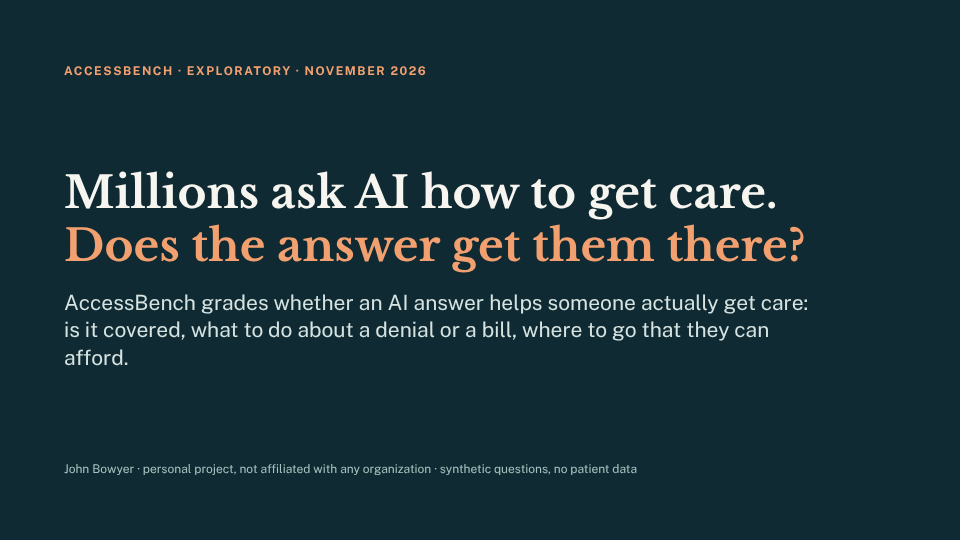
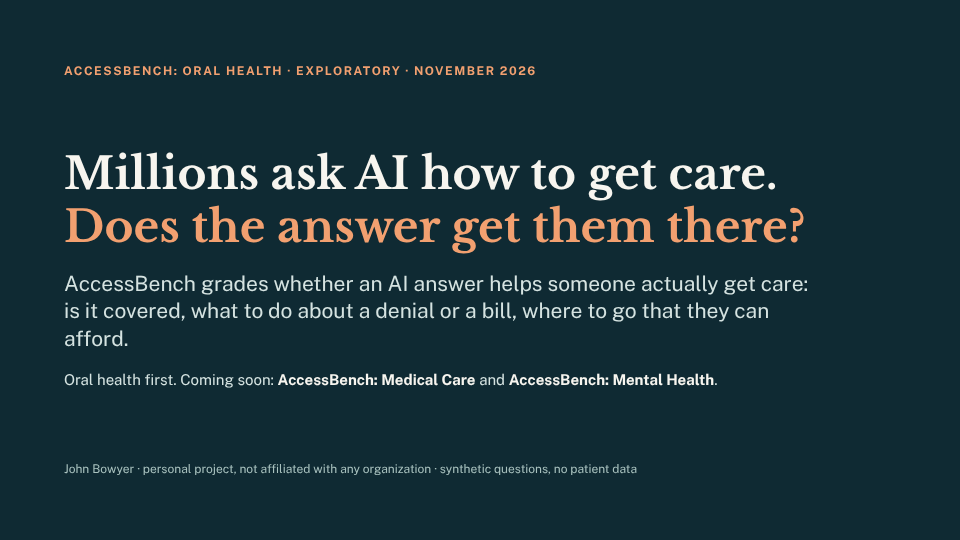
Show AccessBench's three parts: Oral Health now, Medical Care and Mental Health coming soon
Matches the deck's new name, AccessBench: Oral Health (health-transformation-lab-nlp#966).

Closes #37

Claude-Session: https://claude.ai/code/session_01MiKEPajGbA4jaa5nhk8922

Changed region(s): [[0.0625, 0.2667, 0.8438, 0.7111], [0.1875, 0.1185, 0.5625, 0.1481]]

diff --git a/index.html b/index.html
@@ -82,6 +82,9 @@ section p{max-width:46em}
 .bench .quote{font-family:var(--serif);font-size:20px;color:var(--accent);margin:4px 0 16px}
 .bench ul{padding-left:20px;margin:16px 0}
 .bench li{margin:6px 0}
+.sections{list-style:none;padding:0;margin:14px 0 0;display:flex;flex-direction:column;gap:6px}
+.sections li{font-size:16px}
+.sections .soon{color:var(--muted)}
 .note{font-size:14px;color:var(--muted);border-left:3px solid var(--peach);padding-left:12px;margin-top:14px}
 .buttons{display:flex;flex-wrap:wrap;gap:12px;margin-top:22px}
 .btn{display:inline-block;text-decoration:none;font-weight:700;font-size:15px;border-radius:10px;padding:12px 18px;border:1.5px solid var(--ink);color:var(--ink)}
@@ -183,7 +186,7 @@ footer p{max-width:60em;margin-bottom:10px}
     <div class="why">
       <div class="card reveal"><h3>PerioBench: trustworthy records</h3><p>Measure the data quality of electronic dental records, so gum disease can be counted, followed over time and linked to diabetes care.</p></div>
       <div class="card reveal"><h3>OralHealthBench (planned): accurate AI answers</h3><p>Score the AI that millions of people ask on the questions that matter at the seam of medical and dental care: medicines, chronic disease, emergencies.</p></div>
-      <div class="card reveal"><h3>AccessBench (exploratory): getting care</h3><p>Millions ask AI how to get and pay for care. Whether the answer gives the next step they need: coverage, cost, appeals, travel and accommodations.</p></div>
+      <div class="card reveal"><h3>AccessBench (exploratory): getting care</h3><p>Millions ask AI how to get and pay for care. Whether the answer gives the next step they need. Oral health first; medical care and mental health coming soon.</p></div>
       <div class="card reveal"><h3>Open and public</h3><p>Questions trace to published evidence, scores are public, and the code, the synthetic data and the methods are open for anyone to check.</p></div>
     </div>
   </div>
@@ -236,18 +239,23 @@ footer p{max-width:60em;margin-bottom:10px}
     <div>
       <p class="kicker">Benchmark 3 · getting care · exploratory</p>
       <h2>AccessBench</h2>
+      <ul class="sections">
+        <li><b>AccessBench: Oral Health</b> · first results below</li>
+        <li class="soon"><b>AccessBench: Medical Care</b> · coming soon</li>
+        <li class="soon"><b>AccessBench: Mental Health</b> · coming soon</li>
+      </ul>
       <p class="quote">Millions ask AI how to get care. Does the answer get them there?</p>
       <p>People now ask AI the questions they used to bring to a benefits counselor or a dental office's front desk: is this covered, what do I do about this bill, where can I go that I can afford. OpenAI reports more than 40 million people a day asking ChatGPT health questions, and 1.6 to 1.9 million health-insurance messages a week. The right answer depends on the state, the plan, the person's age and a deadline, and an answer that leaves out one step can mean an emergency visit, a cash bill or giving up.</p>
       <p>AccessBench grades whether an AI answer would let someone take the next step: the points this person needs, a usable first action, and no confident wrong turn, with harm and privacy graded separately. The 22 questions are <b>synthetic</b>, written from real public questions, and their answer keys were revised after reviews by five other AI models.</p>
-      <p><b>First results</b> (four open models, run 608662392694095): the answers gave <b>187 of 352</b> steps people needed. No model told someone with swelling or fever to get urgent care now, and none noticed that Medicaid's under-21 dental rule no longer applies at 23.</p>
+      <p><b>First results, AccessBench: Oral Health</b> (four open models, run 608662392694095): the answers gave <b>187 of 352</b> steps people needed. No model told someone with swelling or fever to get urgent care now, and none noticed that Medicaid's under-21 dental rule no longer applies at 23.</p>
       <p class="note">Preliminary: graded by one AI judge, not yet checked by an independent reviewer. ChatGPT, Claude and Gemini are next.</p>
       <div class="buttons">
-        <a class="btn primary" href="access-bench/" target="_blank" rel="noopener">View the pitch</a>
+        <a class="btn primary" href="access-bench/" target="_blank" rel="noopener">View the Oral Health pitch</a>
         <a class="btn" href="https://github.com/healthtransformationlab/health-transformation-lab-nlp/blob/main/docs/access/full_text_and_notes.md" target="_blank" rel="noopener">Read with speaker notes</a>
         <a class="btn" href="https://github.com/healthtransformationlab/health-transformation-lab-nlp/blob/main/benchmarks/access_bench/README.md" target="_blank" rel="noopener">The questions</a>
       </div>
     </div>
-    <a href="access-bench/" target="_blank" rel="noopener"><img src="img/access_deck_cover.png" alt="AccessBench pitch cover: Millions ask AI how to get care. Does the answer get them there?" width="960" height="540"></a>
+    <a href="access-bench/" target="_blank" rel="noopener"><img src="img/access_deck_cover.png" alt="AccessBench: Oral Health pitch cover: Millions ask AI how to get care. Does the answer get them there?" width="960" height="540"></a>
   </div>
 </section>
 
